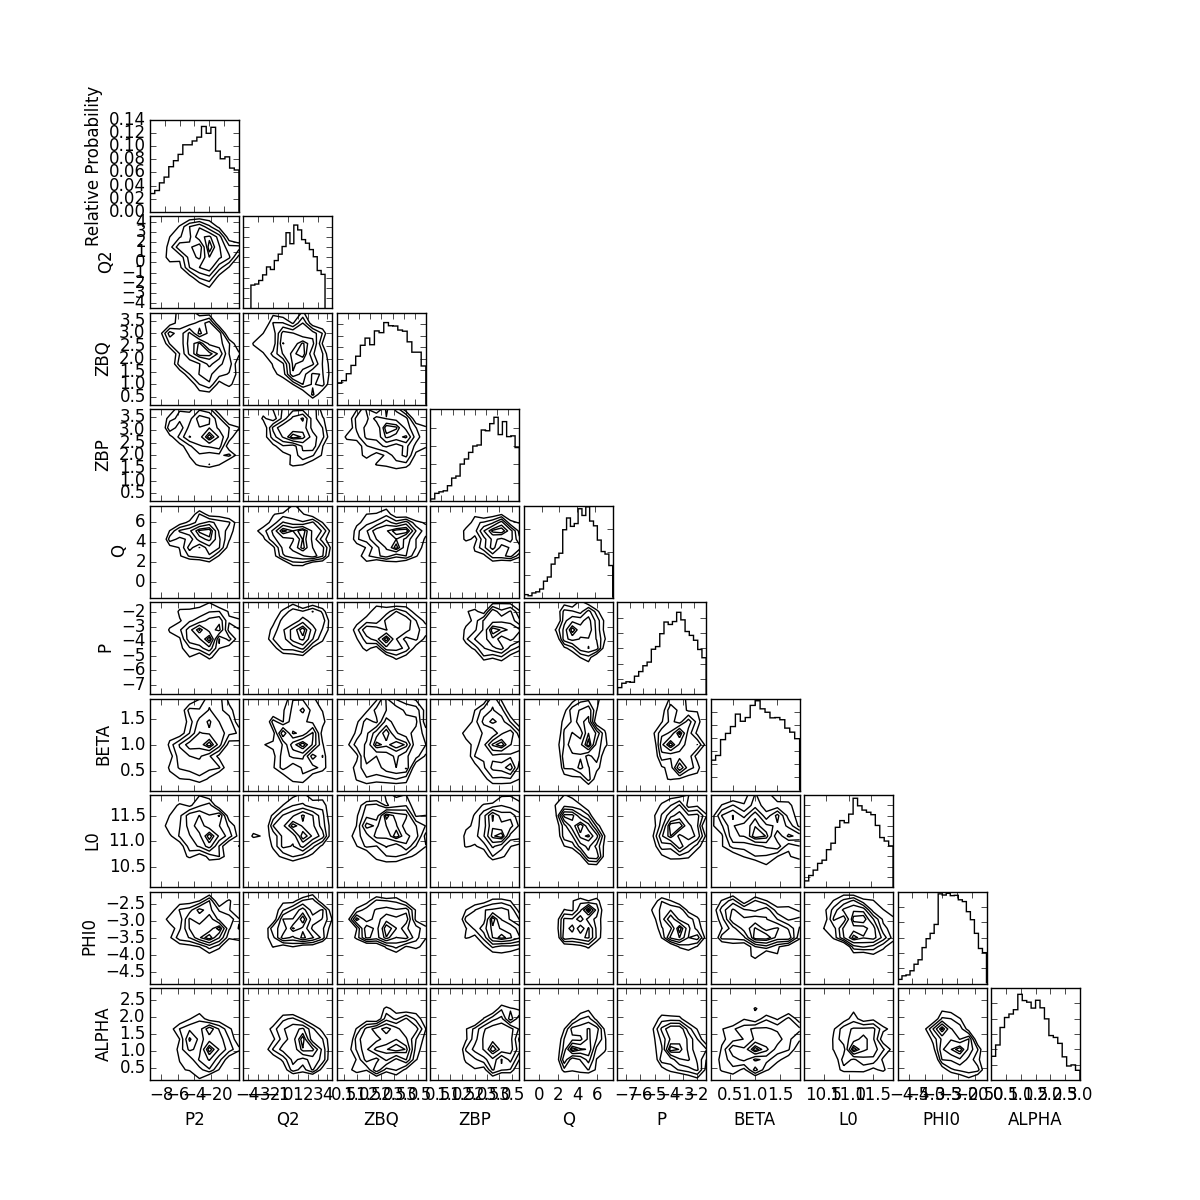
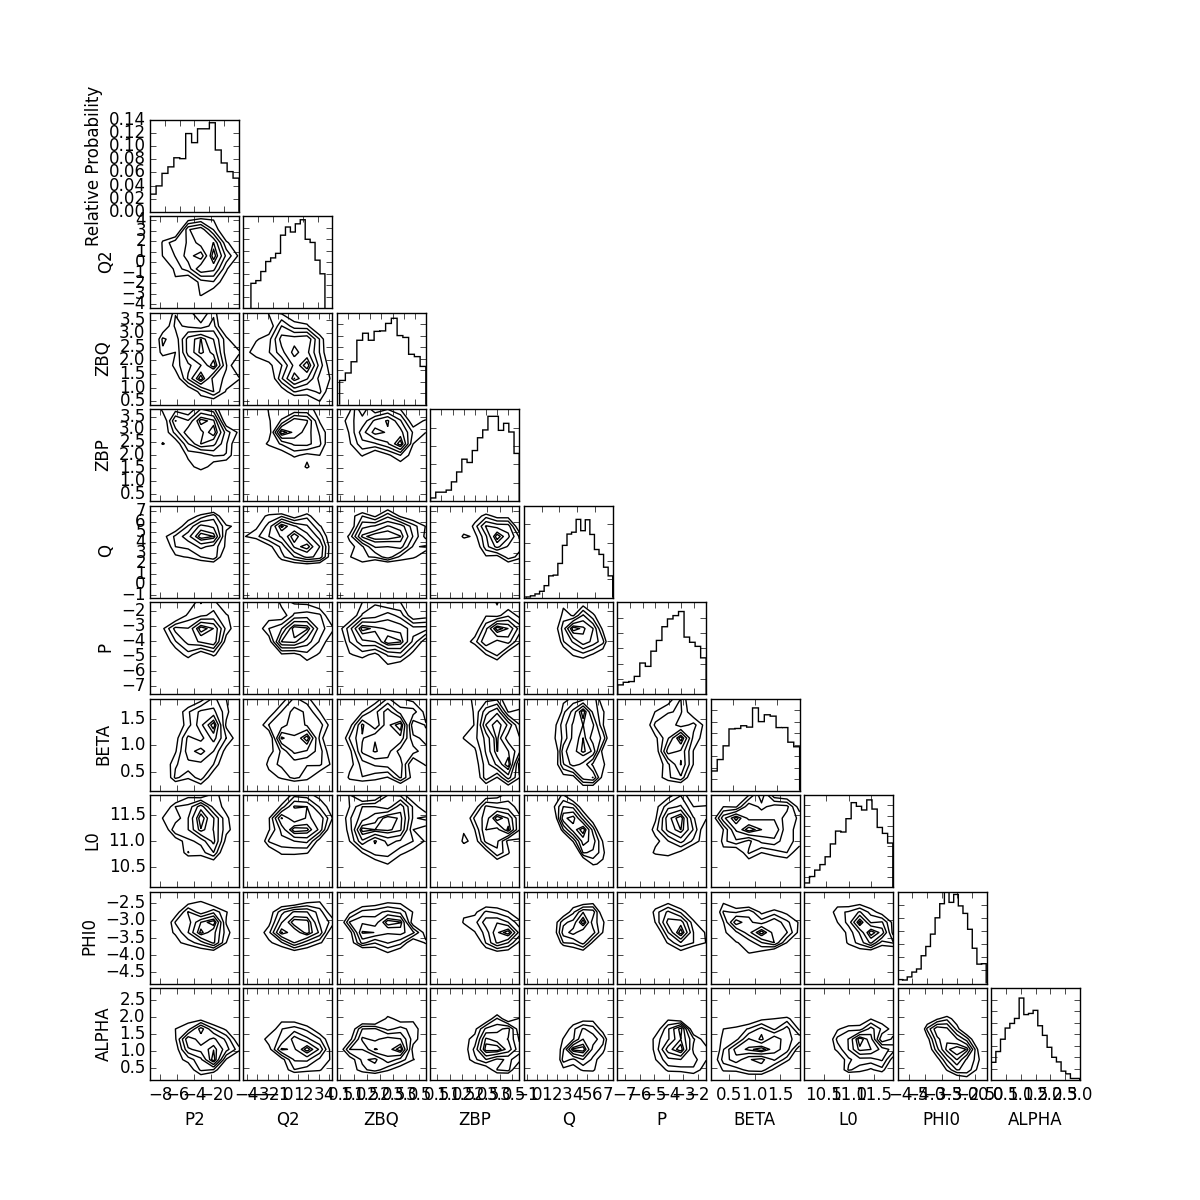
edited output and ran simulations

diff --git a/trunk/python/OutputFile.py b/trunk/python/OutputFile.py
@@ -300,7 +300,8 @@ class MCMCInfo:
                 p0=p0+str(0)
             self.Parameters[p0]=list()
             for i in range(0,self.ChainNum):
-                self.Parameters[p0].extend(params[p0+str(i)])
+                gpts=numpy.where(self.ChiSquares[i] < numpy.median(self.ChiSquares))
+                self.Parameters[p0].extend(params[p0+str(i)][gpts])
 
         for k,v in self.Parameters.iteritems():
             self.BestFit[k]={'mean':numpy.mean(self.Parameters[k]),

diff --git a/Examples/run_analysis.py b/Examples/run_analysis.py
@@ -41,7 +41,7 @@ mod.params['Alpha'].fixed=0
 mod.params['Beta'].value=0.5
 mod.params['Beta'].pmin=0
 mod.params['Beta'].pmax=2.0
-mod.params['Beta'].fixed=0
+mod.params['Beta'].fixed=1
 
 mod.params['Phi0'].value=-3.1
 mod.params['Phi0'].fixed=0
@@ -86,7 +86,7 @@ mod.annealing['learningRate']=0.4
 
 mod.convergence['CI']=0.95
 
-simname="spire_MS_D_G13"
+simname="spire_MS_D_betafix_G13"
 mfile=simname+"_model.fits"
 outfile=simname+"_output.fits"
 
